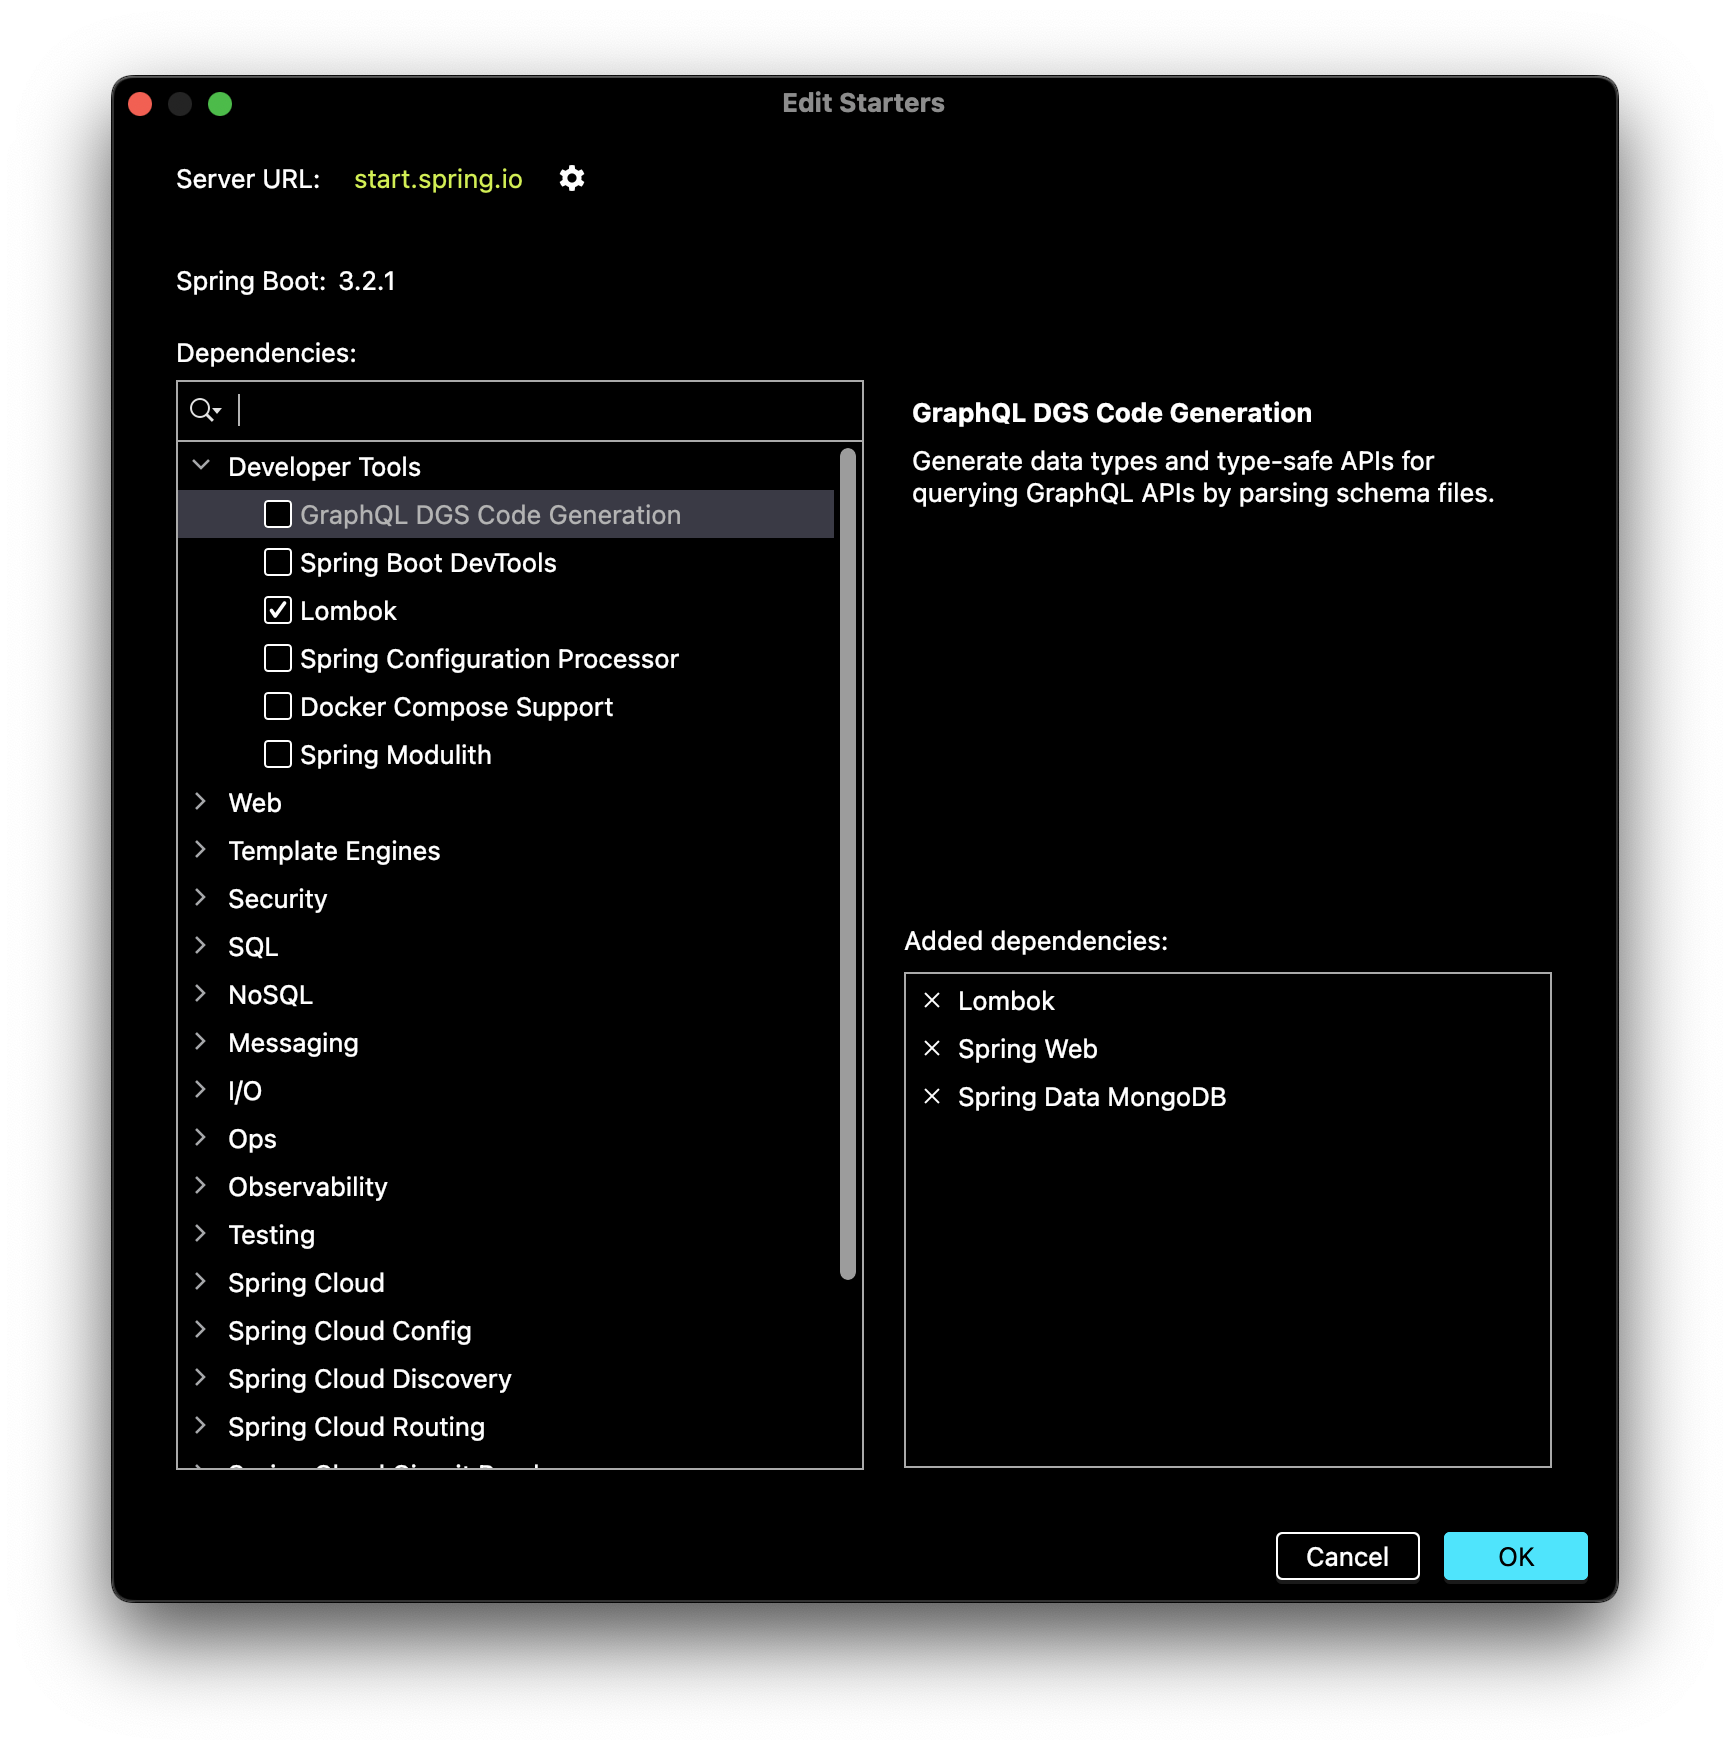
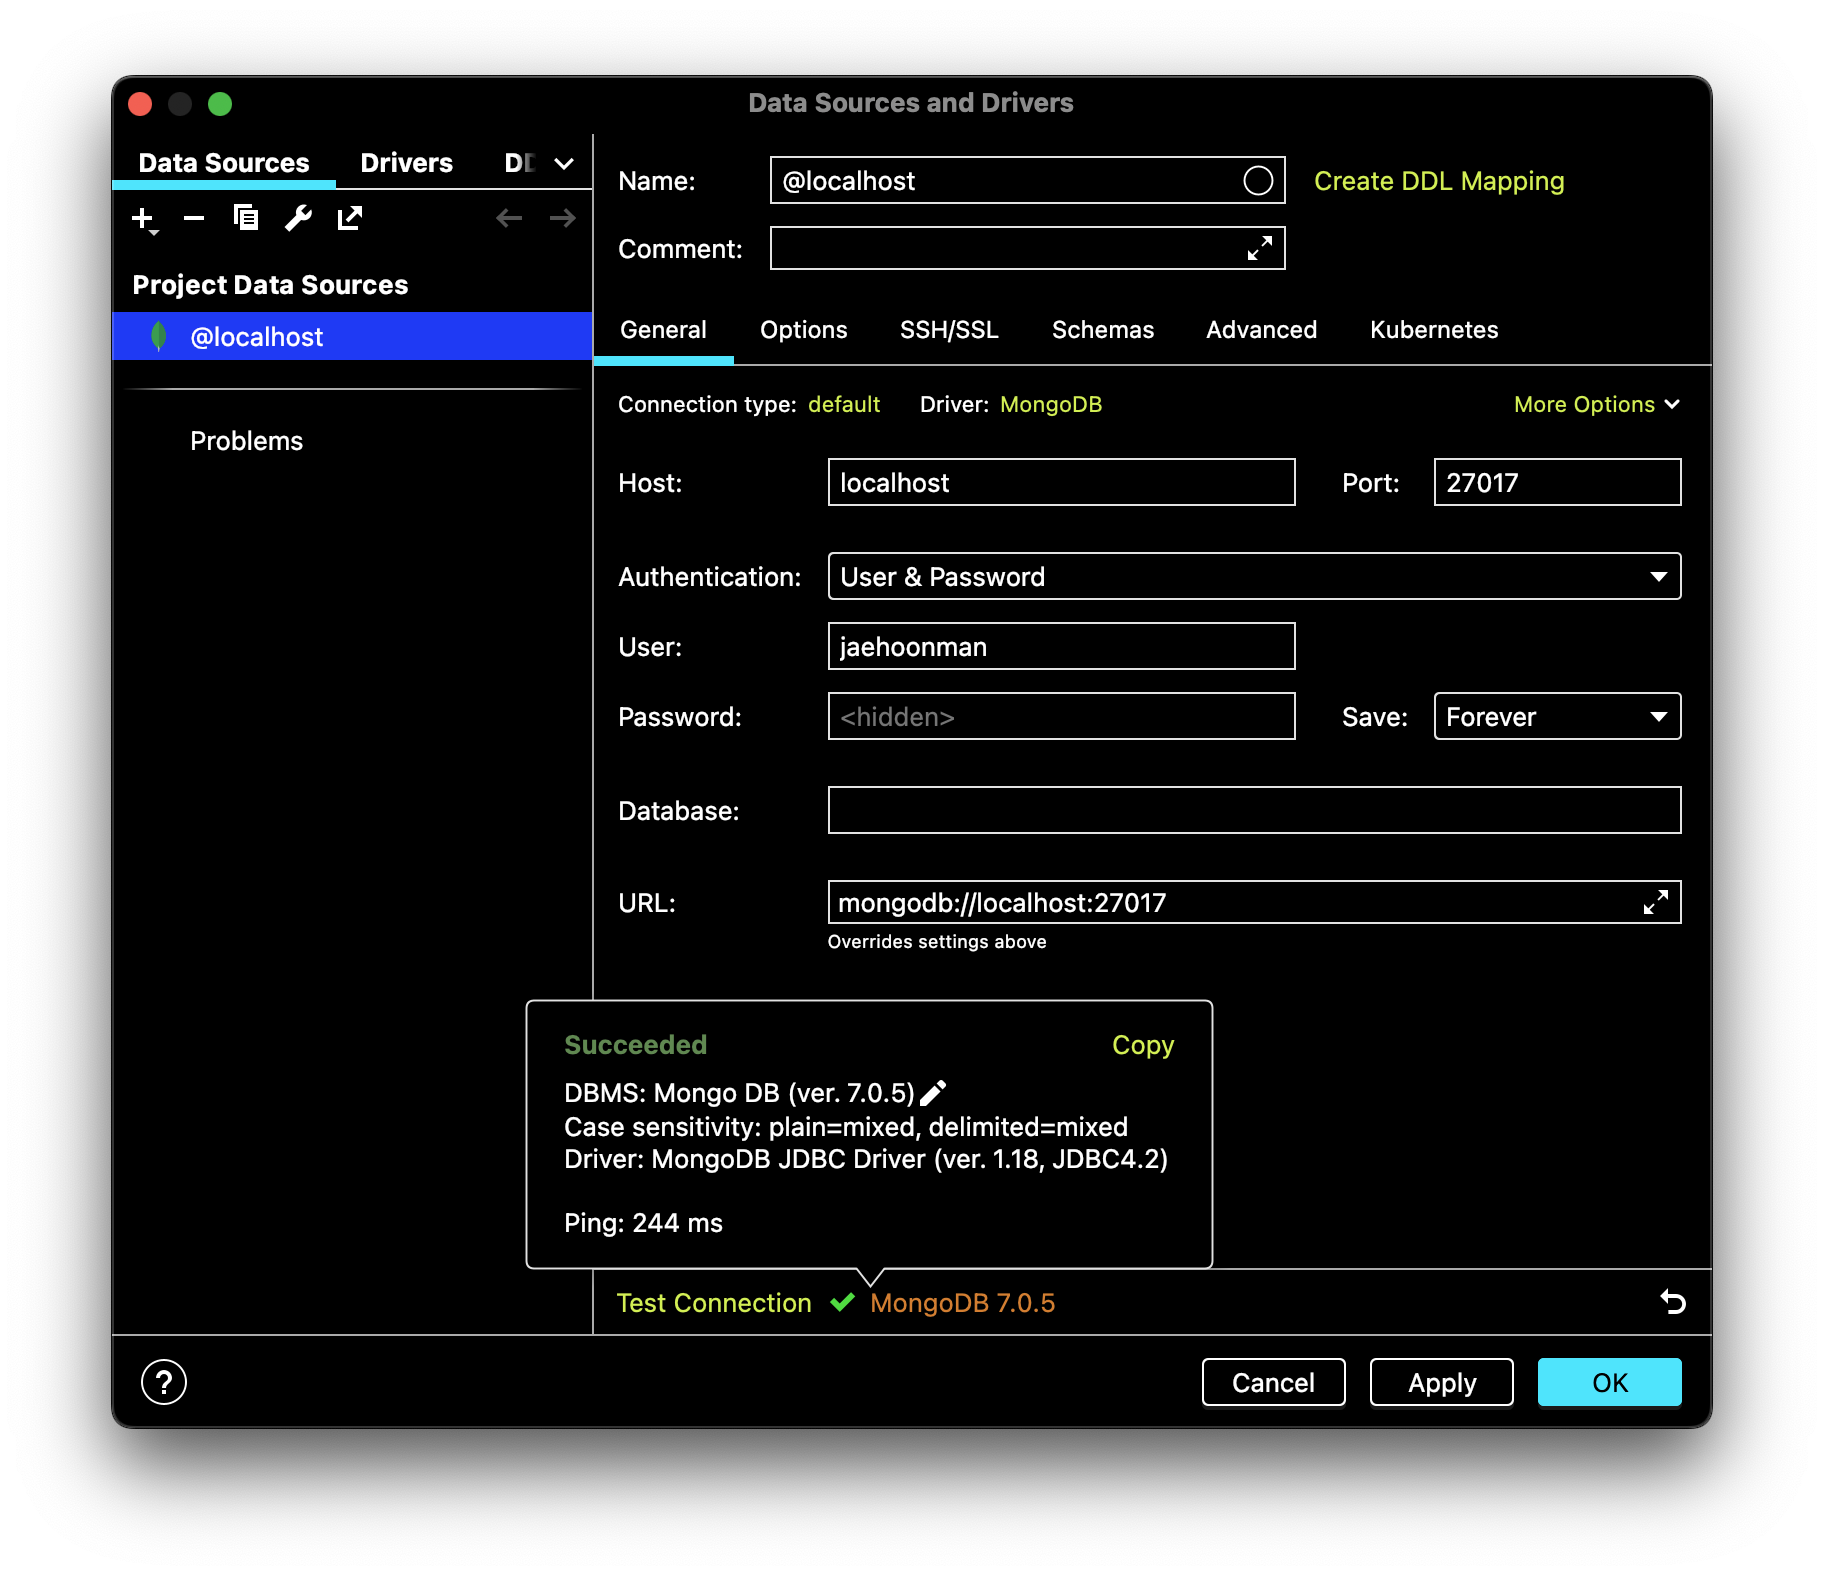
1. Docker Compose로 Spring Boot + MongoDB 구성 포스트 수정

diff --git a/_posts/2024/composed_settings/2024-01-17-spring-boot-mongoDB-docker-2.md b/_posts/2024/composed_settings/2024-01-17-spring-boot-mongoDB-docker-2.md
@@ -325,9 +325,6 @@ docker compose up
 
 이전과 같은 동작 테스트를 통해 정상 여부를 판단할 수 있다.
 
-<br>
-다음 포스트에서는 Docker Repository에 컨테이너를 올리고 이것을 AWS에서 실행 해보자.
-
 
 <br>
 
